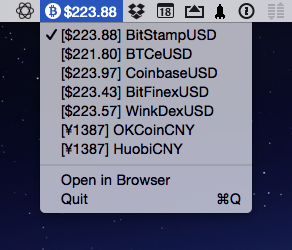
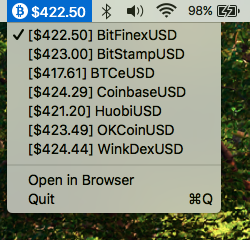
Update documentation

diff --git a/README.md b/README.md
@@ -1,7 +1,7 @@
 btcbar
 ======
 
-A tiny status bar widget for OS X that displays the latest USD/BTC spot price from several USD and CNY exchanges.
+A tiny status bar widget for OS X that displays the latest USD/BTC spot price from several exchanges.
 
 ## Screenshot
 
@@ -19,13 +19,27 @@ Simply place btcbar.app in your `/Applications` folder, and optionally add it to
 
 ## Download
 
-The current version of btcbar (2.2.1) can be downloaded here:
+The current version of btcbar (2.3.0) can be downloaded here:
 
-https://github.com/nearengine/btcbar/releases/download/v2.2.1/btcbar_2_2_1.zip
+https://github.com/nearengine/btcbar/releases/download/v2.3.0/btcbar_2_3_0.zip
 
 It requires OS X 10.7+ and a 64-bit processor.
 
 ## Changelog
+
+### 2.3.0
+
+* Fix #15 text cut off on launch
+* Fix #14 setting update frequency to 60 seconds (from 10 seconds)
+* Fix #13 Huobi ticker error **Note:** Strict TLS 1.2 checks had to be disabled for the Huobi domain due to their insecure HTTPS certificate. It was only using HTTP until this release, so this is unfortunate but is not a regression.
+* Use the new Huobi and OKCoin USD tickers rather than CNY price **Note:** Apologies to anyone this inconveniences. Also, this change will reset your default ticker.
+* Tickers are now sorted alphabetically
+
+TODO:
+* Implement multiple currency pair support on tickers in the near future to support switching between currencies.
+* Make ticker loading and default ticker handling more robust so they can be swapped out or plugged in easier.
+* Implement self-updates from within the app
+* Figure out an appropriate OSS license
 
 ### 2.2.1
 
